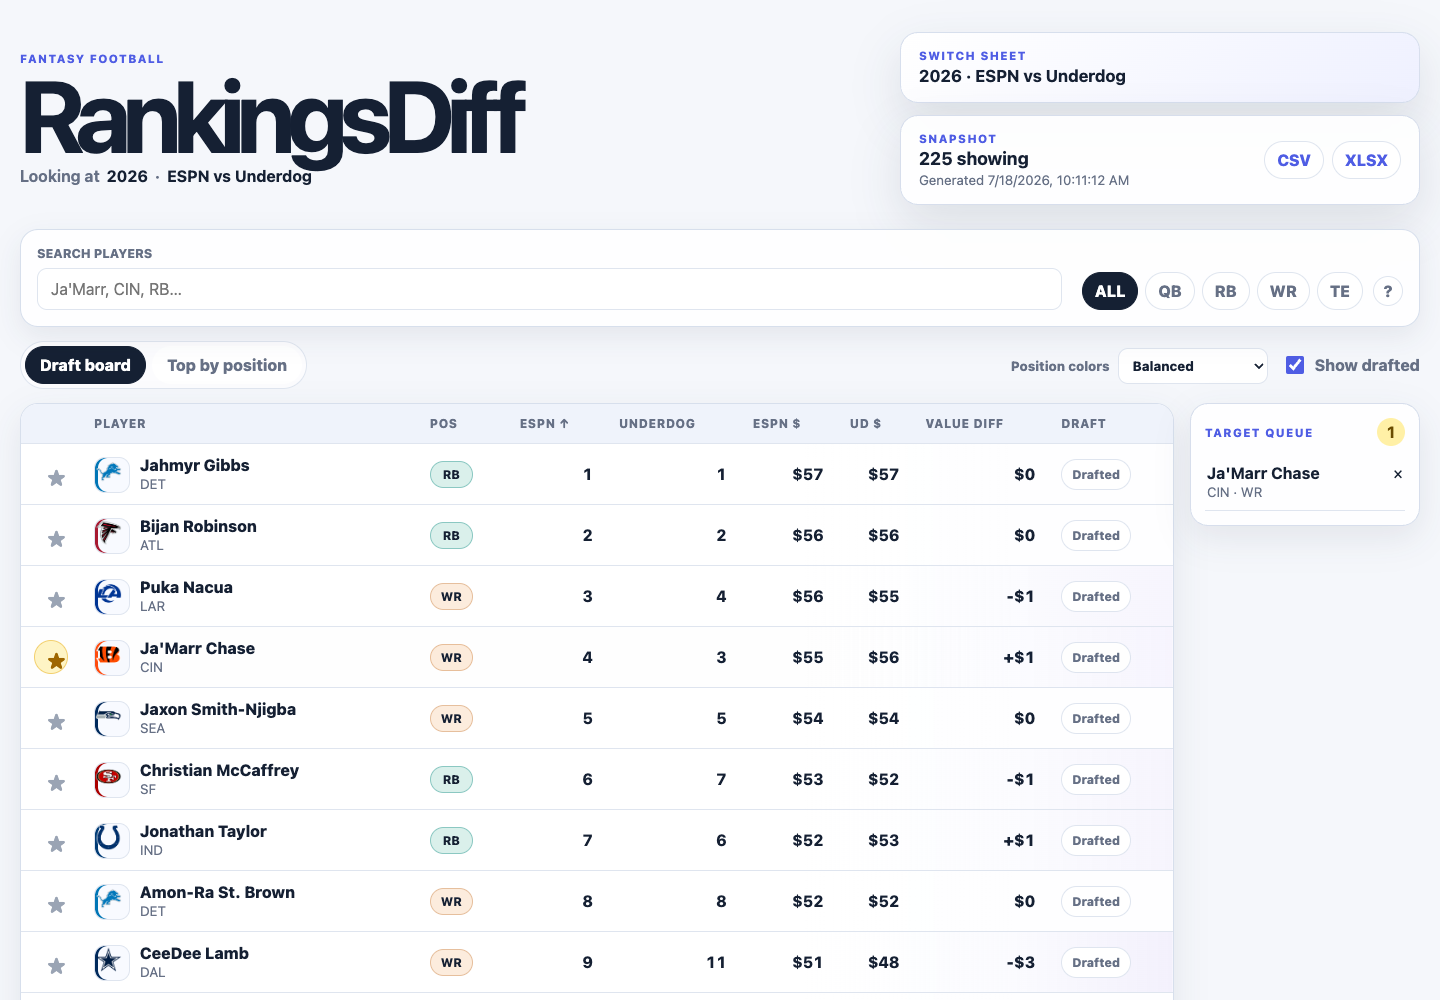
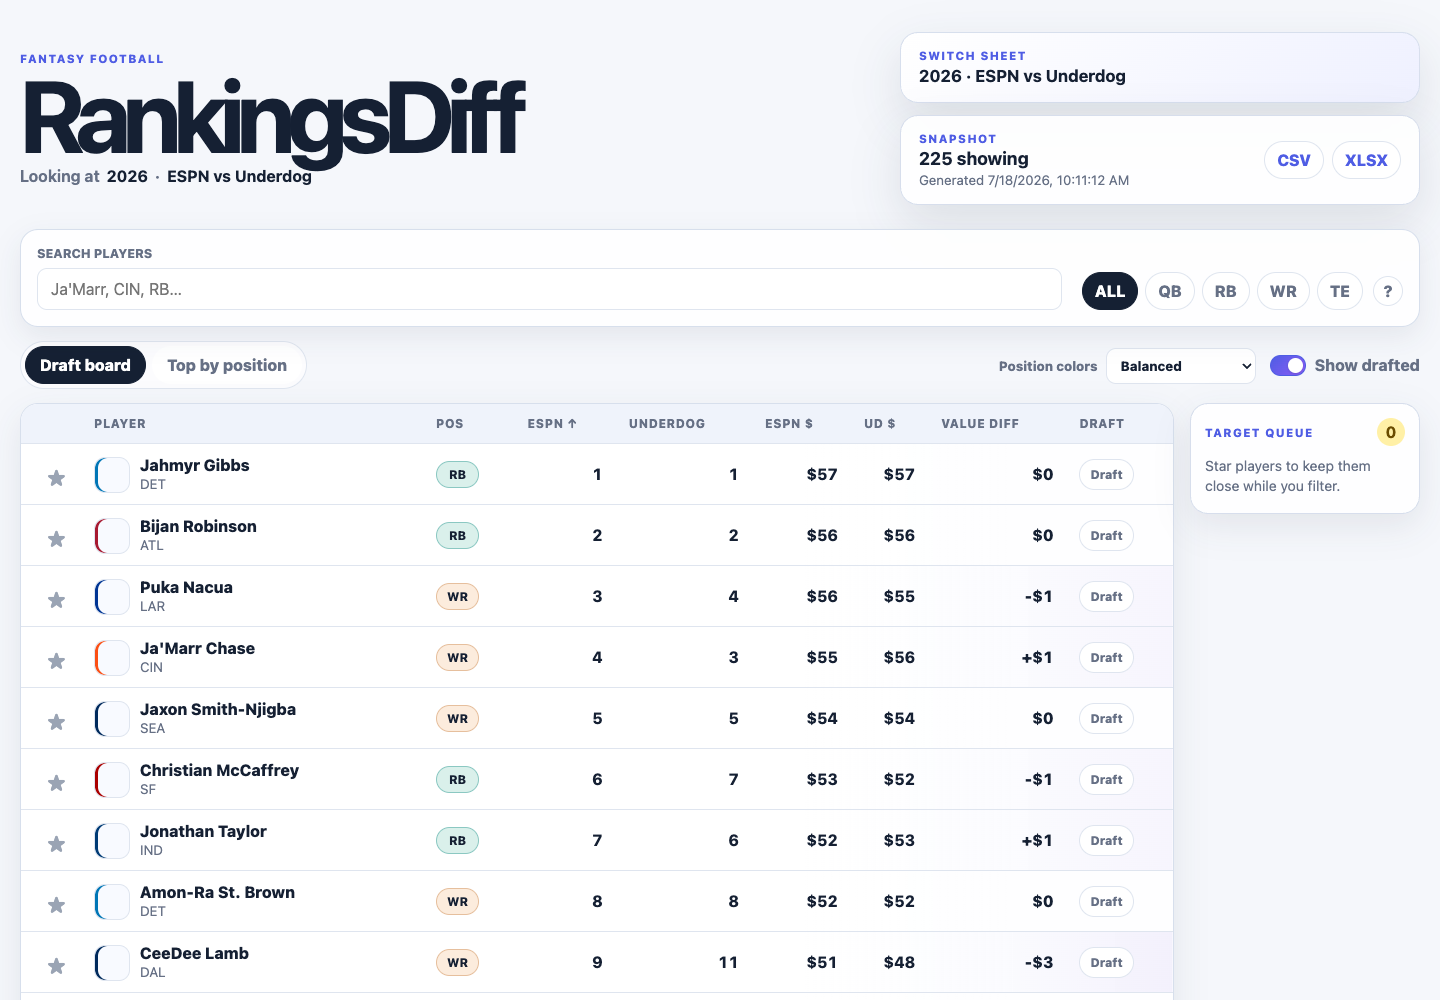
Polish draft controls across views

diff --git a/frontend/src/styles.css b/frontend/src/styles.css
@@ -69,8 +69,12 @@ h1 { margin: 7px 0 8px; font-size: clamp(3rem, 7vw, 6.4rem); line-height: .86; l
 .draft-toolbar__actions { display: flex; gap: 14px; align-items: end; flex-wrap: wrap; }
 .palette-control { display: grid; grid-template-columns: auto 150px; gap: 8px; align-items: center; color: var(--muted); font-size: .82rem; font-weight: 800; }
 .palette-control select { padding: 8px 10px; }
-.drafted-toggle { display: flex; gap: 8px; align-items: center; min-height: 38px; color: var(--muted); font-weight: 750; }
-.drafted-toggle input { width: 18px; height: 18px; accent-color: var(--accent); }
+.drafted-toggle { display: flex; gap: 9px; align-items: center; min-height: 38px; color: var(--muted); font-weight: 750; }
+.drafted-toggle input { appearance: none; position: relative; width: 36px; height: 21px; margin: 0; border: 1px solid var(--line); border-radius: 999px; background: #d9dfeb; transition: background .15s ease, border-color .15s ease; }
+.drafted-toggle input::after { content: ""; position: absolute; top: 2px; left: 2px; width: 15px; height: 15px; border-radius: 50%; background: #fff; box-shadow: 0 1px 3px rgba(21,32,51,.25); transition: transform .15s ease; }
+.drafted-toggle input:checked { border-color: var(--accent); background: linear-gradient(135deg, var(--accent), var(--accent-2)); }
+.drafted-toggle input:checked::after { transform: translateX(15px); }
+.drafted-toggle input:focus-visible { outline: 3px solid rgba(79,93,228,.2); outline-offset: 2px; }
 
 /* Draft board */
 .draft-board-layout { display: grid; grid-template-columns: minmax(0, 1fr) 230px; gap: 16px; align-items: start; }
@@ -97,7 +101,7 @@ tbody tr.is-drafted { opacity: .48; }
 .pos-qb { --pos-color: var(--qb); } .pos-rb { --pos-color: var(--rb); } .pos-wr { --pos-color: var(--wr); } .pos-te { --pos-color: var(--te); } .pos-other { --pos-color: var(--muted); }
 .icon-action { display: inline-grid; place-items: center; width: 34px; height: 34px; border: 1px solid transparent; border-radius: 50%; color: #9aa4b4; background: transparent; font-size: 1.15rem; }
 .target-action.active { border-color: #f1d176; color: #9b6700; background: #fff5c9; }
-.draft-action { padding: 7px 10px; font-size: .76rem; white-space: nowrap; }
+.draft-action { min-width: 52px; padding: 7px 10px; font-size: .76rem; white-space: nowrap; }
 .draft-action:hover { border-color: var(--accent); color: var(--accent); }
 .draft-action.active { color: var(--ink); background: var(--accent-soft); }
 .target-queue { position: sticky; top: 12px; overflow: hidden; border-radius: 18px; padding: 14px; box-shadow: 0 12px 34px rgba(28, 39, 69, .09); }
@@ -169,10 +173,9 @@ tbody tr.is-drafted { opacity: .48; }
 
 @media (min-width: 1280px) {
   .position-board { grid-template-columns: repeat(4, minmax(0, 1fr)); }
-  .position-player { grid-template-columns: 22px minmax(90px,1fr) auto 32px 32px; }
+  .position-player { grid-template-columns: 22px minmax(90px,1fr) auto 32px 46px; }
   .position-player .team-badge { display: none; }
-  .position-player .draft-action { display: grid; place-items: center; width: 32px; height: 32px; overflow: hidden; padding: 0; font-size: 0; }
-  .position-player .draft-action::before { content: "✓"; font-size: .85rem; }
+  .position-player .draft-action { min-width: 46px; padding: 6px; }
 }
 @media (max-width: 1020px) { .hero { grid-template-columns: 1fr; } .hero-actions { grid-template-columns: 1fr 1fr; } .draft-board-layout { grid-template-columns: 1fr; } .target-queue { position: static; display: none; } }
 @media (max-width: 760px) {

diff --git a/frontend/src/components/PositionBoard.tsx b/frontend/src/components/PositionBoard.tsx
@@ -49,7 +49,7 @@ export function PositionBoard({ rows, teams, targets, drafted, isEspn, showDraft
                       <span>{isEspn ? `${formatValue(row.sourceValue)} / ${formatValue(row.underdogValue)}` : 'rank gap'}</span>
                     </div>
                     <button className={`icon-action target-action ${targets.has(id) ? 'active' : ''}`} type="button" aria-label={`${targets.has(id) ? 'Remove target' : 'Target'} ${row.player}`} aria-pressed={targets.has(id)} onClick={() => onTarget(id)}>★</button>
-                    <button className={`draft-action ${isDrafted ? 'active' : ''}`} type="button" onClick={() => onDrafted(id)}>{isDrafted ? 'Undo' : 'Drafted'}</button>
+                    <button className={`draft-action ${isDrafted ? 'active' : ''}`} type="button" aria-label={`${isDrafted ? 'Undo drafted' : 'Mark drafted'} ${row.player}`} onClick={() => onDrafted(id)}>{isDrafted ? 'Undo' : 'Draft'}</button>
                   </div>
                 )
               })}

diff --git a/frontend/src/components/RankingsTable.tsx b/frontend/src/components/RankingsTable.tsx
@@ -71,7 +71,7 @@ export function RankingsTable({ rows, teams, source, sortKey, sortDirection, tar
                 {isEspn ? <td className="num">{formatValue(row.sourceValue)}</td> : null}
                 {isEspn ? <td className="num">{formatValue(row.underdogValue)}</td> : null}
                 <td className="num emphasis">{isEspn ? formatSignedValue(row.diff) : formatRank(row.diff)}</td>
-                <td><button className={`draft-action ${isDrafted ? 'active' : ''}`} type="button" onClick={() => onDrafted(id)}>{isDrafted ? 'Undo' : 'Drafted'}</button></td>
+                <td><button className={`draft-action ${isDrafted ? 'active' : ''}`} type="button" aria-label={`${isDrafted ? 'Undo drafted' : 'Mark drafted'} ${row.player}`} onClick={() => onDrafted(id)}>{isDrafted ? 'Undo' : 'Draft'}</button></td>
               </tr>
             )
           })}
